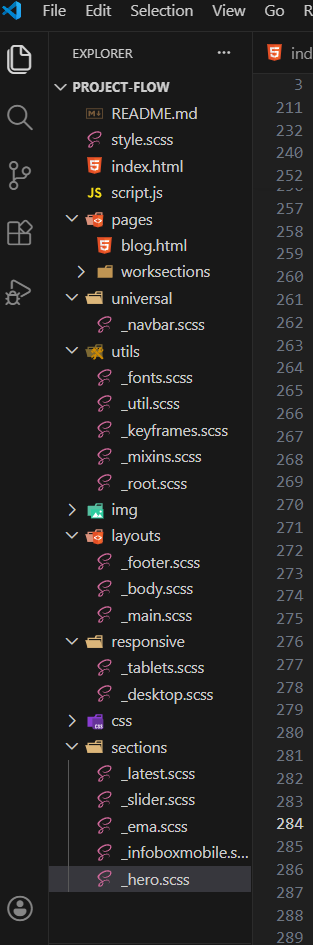
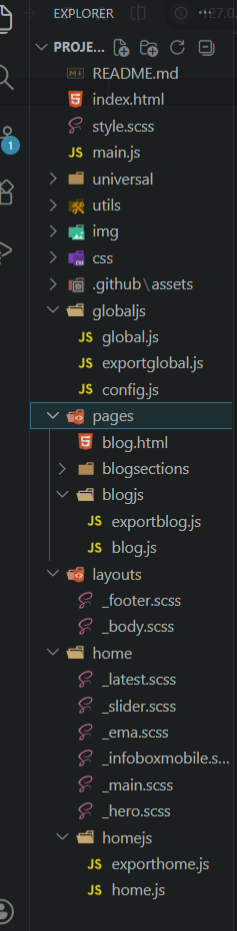
last finishing and checkpoint for next page

diff --git a/pages/blog.html b/pages/blog.html
@@ -73,7 +73,7 @@
                         </div>
                     </div>
                     <div class="mobile-links">
-                        <div class="nav-blanks" data-target="index.html">
+                        <div class="nav-blanks" data-target="../index.html">
                             <h3>Home</h3>
                             <i class="ri-arrow-right-up-long-line "></i>
                         </div>

diff --git a/css/style.css b/css/style.css
@@ -665,6 +665,10 @@ header .mobile-menu-overlay .containerMenu .mobile-links .nav-blanks:active {
   background-color: var(--text-clr);
   color: var(--body-clr);
 }
+header .mobile-menu-overlay .containerMenu .mobile-links .nav-blanks:nth-last-child(1) {
+  background-color: var(--contact-clr);
+  color: var(--body-clr);
+}
 
 @media (min-width: 768px) {
   header {

diff --git a/home/_hero.scss b/home/_hero.scss
@@ -286,6 +286,10 @@ header {
                         color: var(--body-clr);
                     }
                 }
+                .nav-blanks:nth-last-child(1){
+                    background-color: var(--contact-clr);
+                    color: var(--body-clr);
+                }
 
 
             }
